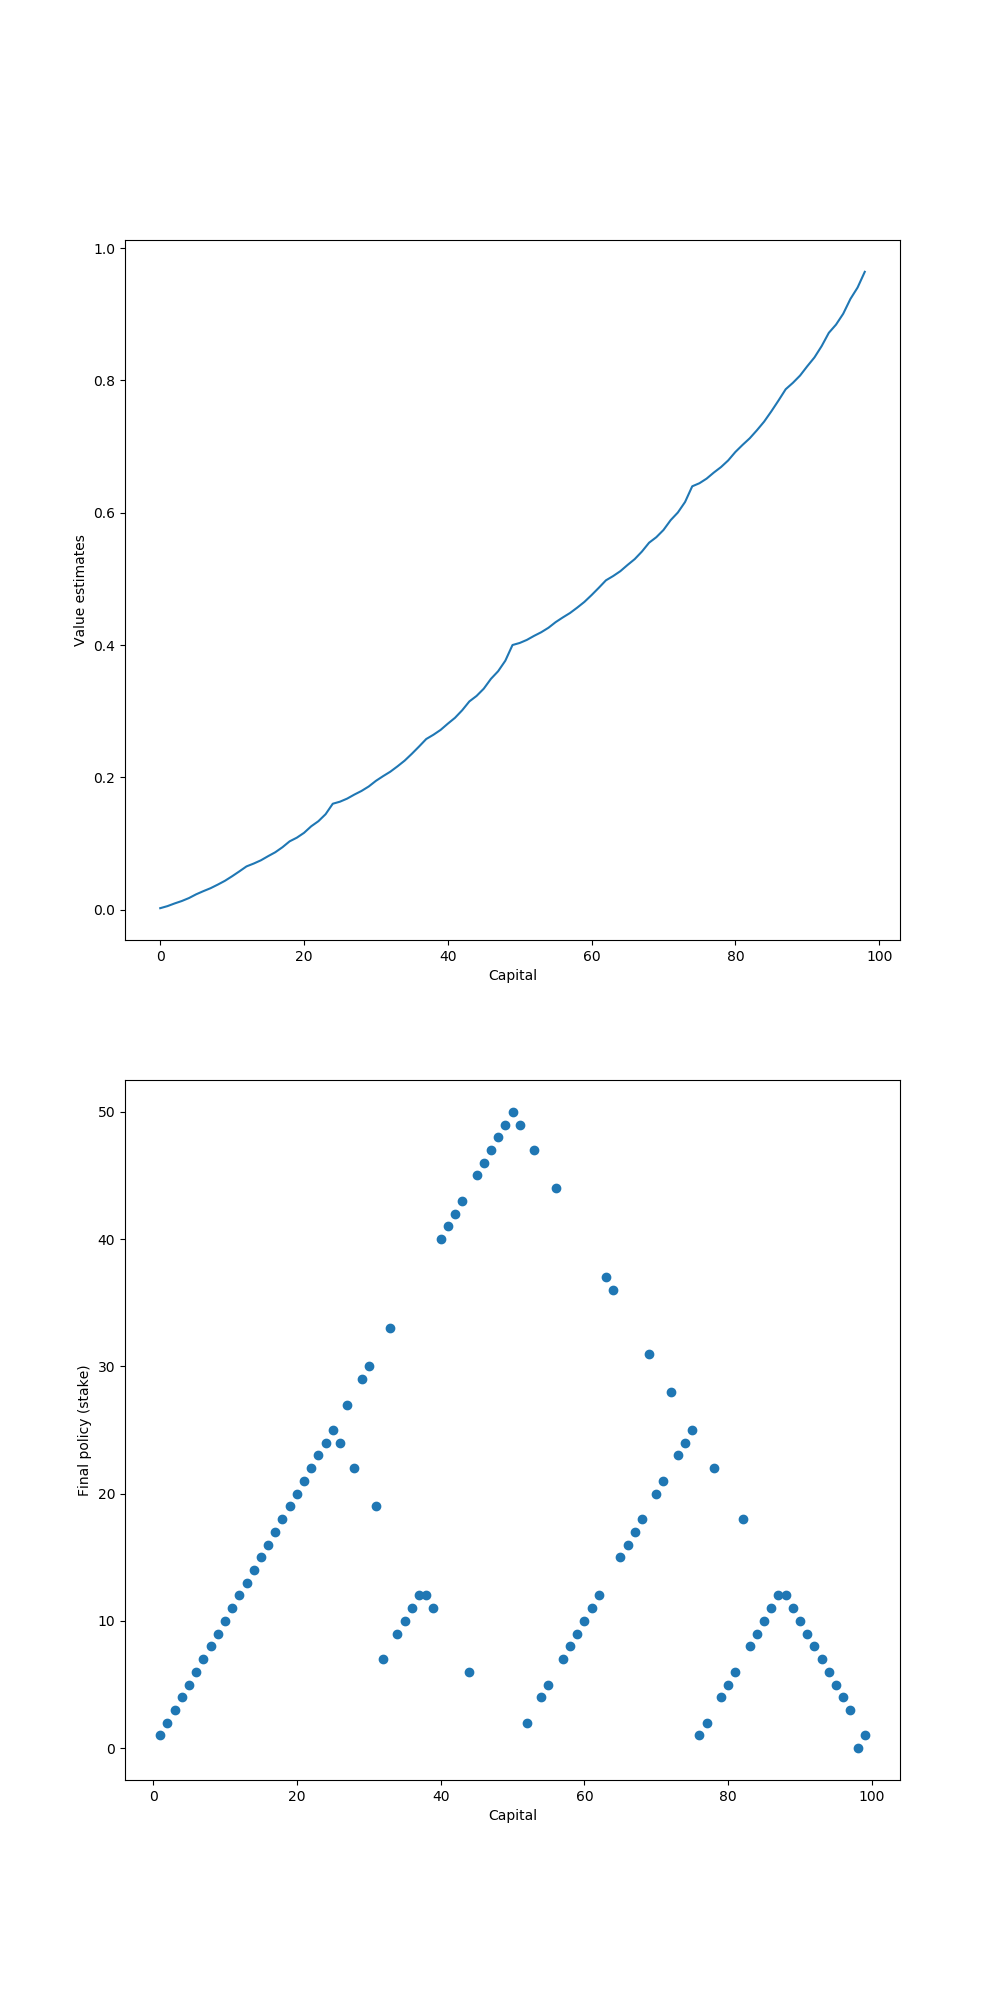
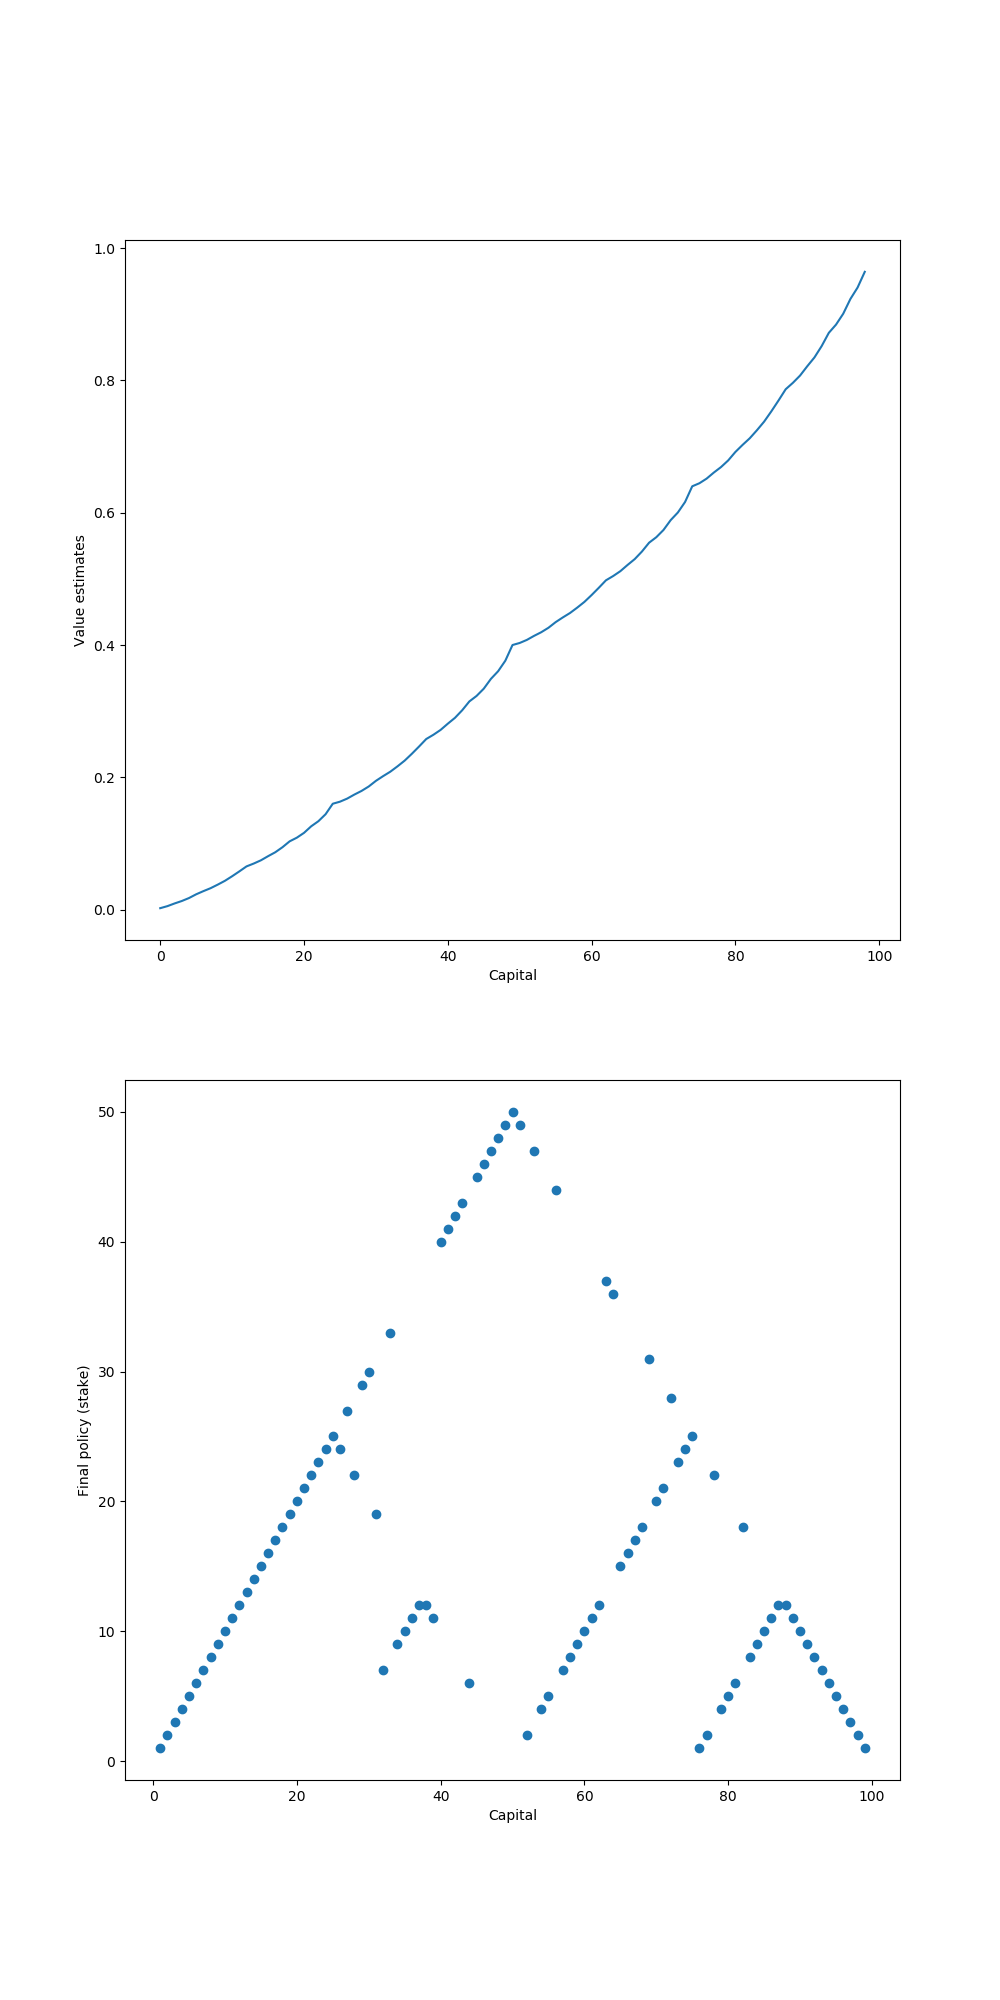
value

diff --git a/chap4/value/value_iteration.py b/chap4/value/value_iteration.py
@@ -27,7 +27,6 @@ SOFTWARE.
 import numpy as np
 import matplotlib
 import matplotlib.pyplot as plt
-import copy
 
 
 '''
@@ -54,7 +53,7 @@ def step(s, a, value):
 
 
 def run3():
-    value = np.random.rand(101) * 2 - 1  # [-1, 1) arbitrarily
+    value = np.ones(101) * 100
     value[0] = 0.0
     value[100] = 0.0
     policy = np.ones(99, dtype=np.int)
@@ -80,7 +79,7 @@ def run3():
             ra = policy[j]
             for a in actions:
                 v = step(i, a, value)
-                if v >= mv:
+                if v >= mv and a != 0:
                     mv = v
                     ma = a
             if ra != ma:
@@ -112,7 +111,7 @@ def run2():
         ma = 0
         for a in get_actions(i):
             v = step(i, a, value)
-            if v >= mv:
+            if v >= mv and a != 0:
                 mv = v
                 ma = a
         policy[j] = ma
@@ -120,10 +119,10 @@ def run2():
 
 
 def run():
-    value = np.random.rand(101) - 1.0  # if value is initialized arbitrarily, it must be less than 0.0, because value is the probability of reaching goal in current state
+    value = np.random.rand(101) * -100  # arbitrarily but not bigger than 0
     value[0] = 0.0
     value[100] = 0.0
-    policy = np.zeros(99)
+    policy = np.ones(99, dtype=np.int)
     epsilon = 1e-9
     while True:
         m = 0.0
@@ -145,7 +144,7 @@ def run():
         ma = 0
         for a in get_actions(i):
             v = step(i, a, value)
-            if v >= mv:
+            if v >= mv and a != 0:
                 mv = v
                 ma = a
         policy[j] = ma
@@ -170,7 +169,9 @@ def plot(value, policy, name):
 if __name__ == "__main__":
     value, policy = run()
     plot(value, policy, 'value_iteration.png')
-    value2, policy = run2()
-    plot(value, policy, 'value_iteration2.png')
-    value3, policy = run3()
-    plot(value, policy, 'value_iteration3.png')
+
+    value2, policy2 = run2()
+    plot(value2, policy2, 'value_iteration2.png')
+
+    value3, policy3 = run3()
+    plot(value3, policy3, 'value_iteration3.png')
